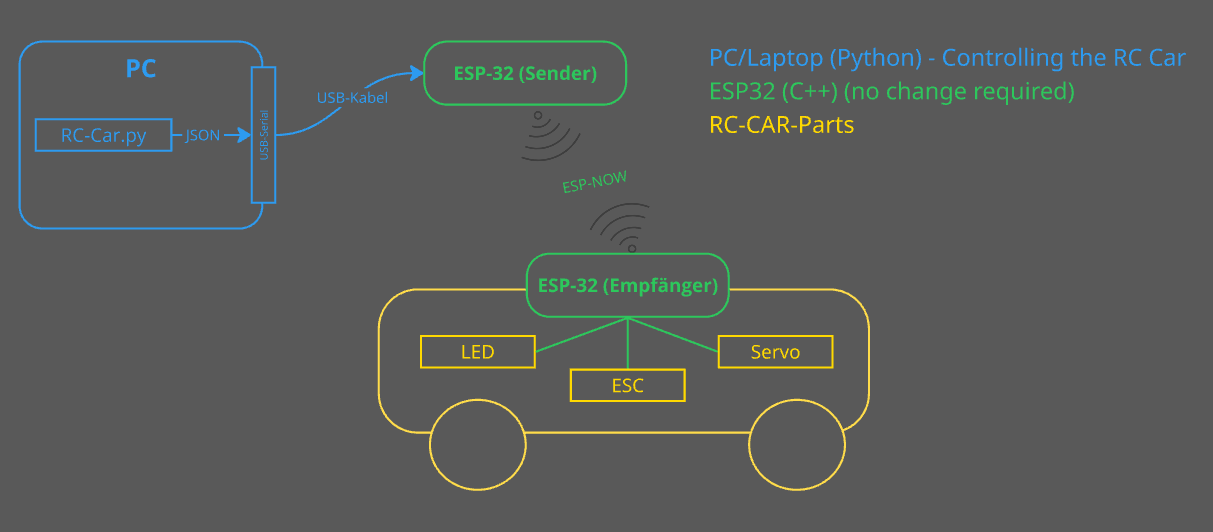
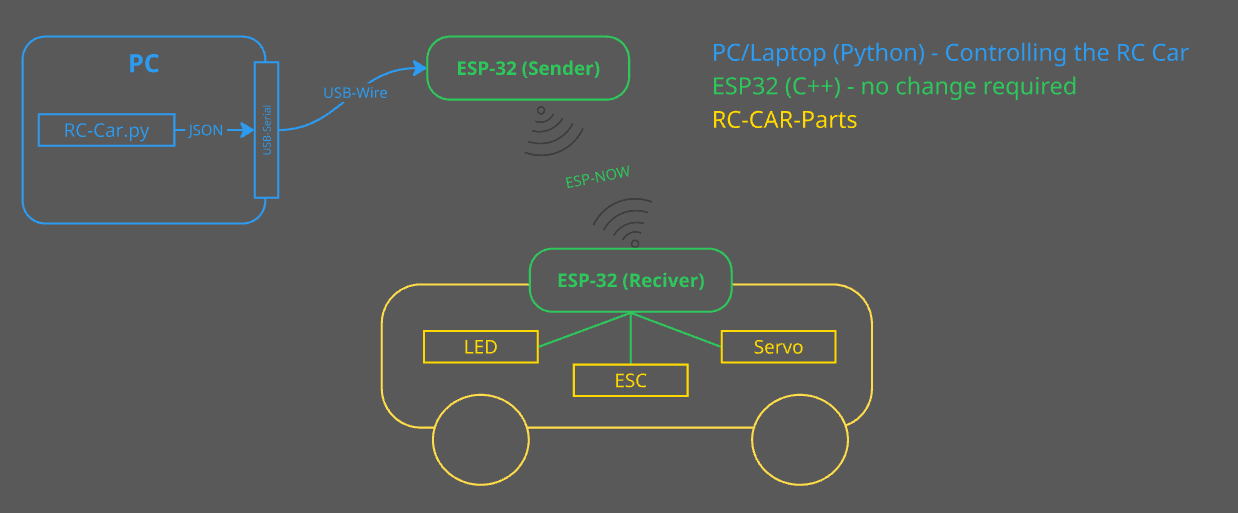
update Readme

diff --git a/README.md b/README.md
@@ -5,13 +5,13 @@
 
 # RC_CAR
 
-This project was created as a programming exercise for Python. Originally, my wife wanted to learn programming, so I designed this project for her. It combines many aspects from the STEM/Maker world: electronics, programming, laser-cutting, soldering, 3D printing, and more. The result is not only educational, but also fun for kids!
+This project was created as a programming exercise for Python. Originally, my wife wanted to learn programming, so I designed this project for her. It combines many basic skills from the STEM/Maker world: electronics, programming, laser-cutting, soldering, 3D printing, communicaton and more. The result is not only educational, but also fun for kids!
 
 With this project, my wife learned Python by controlling the RC car. The sender/receiver modules (in C++) were provided by me and do not need to be changed. The idea was that she could control the RC car using Python, while the C++ sender/receiver handle the communication and hardware control.
 
 ## RC Car Model
 
-This project is based on the following 3D-printed RC car from Thingiverse: [https://www.thingiverse.com/thing:3685946](https://www.thingiverse.com/thing:3685946)
+The Car is based on the following 3D-printed RC car from Thingiverse: [https://www.thingiverse.com/thing:3685946](https://www.thingiverse.com/thing:3685946)
 
 
 ## Project Structure
@@ -47,7 +47,7 @@ This project is based on the following 3D-printed RC car from Thingiverse: [http
 - The Sender forwards these commands wirelessly (ESP-NOW) to the ESP32 Receiver.
 - The Receiver processes the commands and controls the hardware: steering servo, motor ESC, and LED on the RC car.
 
-Below is a simple schematic showing how the main components interact:
+Schematic:
 
 ![RC Car Schematic](media/rc_car_schematic.png)
 
@@ -89,9 +89,8 @@ Below is a simple schematic showing how the main components interact:
 - The `test` directories are intended for unit tests with PlatformIO.
 
 
-
 ## Notes
 
 - Communication is handled via ESP-NOW (fast, no WiFi required).
-- Die Hardware-Pins für Servo und ESC sind im Code definiert (z.B. Pin 27 für Servo, Pin 25 für ESC).
-- Timeout-Mechanismus im Empfänger: Setzt ESC auf Neutral, wenn keine Befehle empfangen werden.
+- The hardware pins for servo and ESC are defined in the code (e.g., pin 27 for servo, pin 25 for ESC)..
+- There is a Timeout mechanism in the receiver (Car): Sets ESC to neutral if no commands are received..
